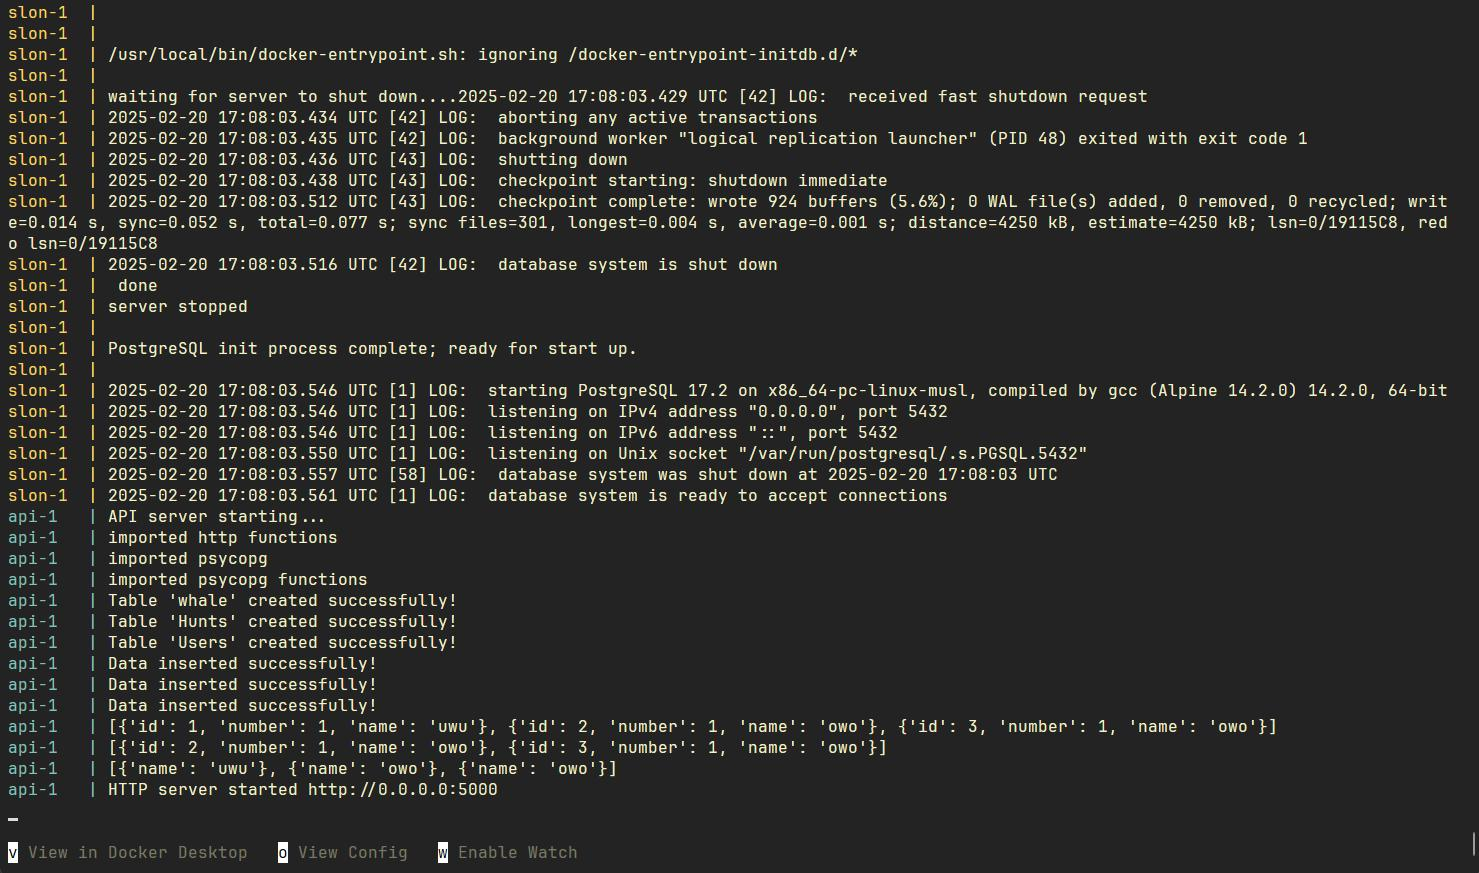
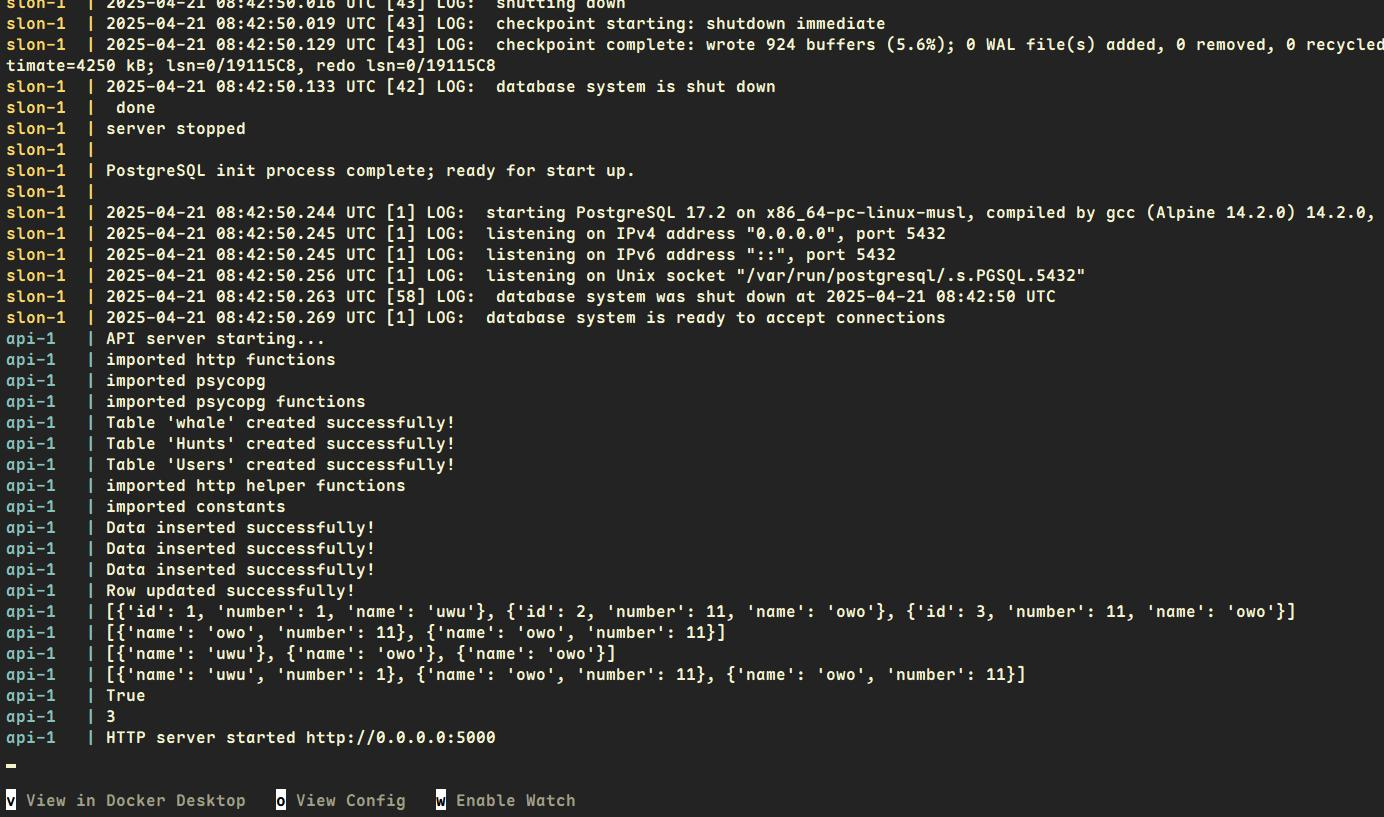
edited docs to reflect current state of the server + some of the firmware

Changed region(s): [[0.0, 0.0, 1.0, 0.918], [0.0, 0.9486, 0.4039, 1.0], [0.9942, 0.9486, 1.0, 0.9792]]

diff --git a/docs/API-functions-explanation.md b/docs/API-functions-explanation.md
@@ -45,12 +45,26 @@ If an error occurs it prints the error message and returns False.
 
 The function creates a cursor and makes a column list string that it inserts into a query, then executes it. Then it turns the returned values into a list of dictionaries and returns that.
 If an error occurs it prints the error message and returns an empty list.
+
+#### fetch_and_sort
+>params: generic_params, columns(list), sort_column(str), limit=None(int)  
+>returns: list of dictionaries/Empty list  
+
+The function creates a cursor and makes a column list string which it inserts into a query, with a order by a column, then executes it. Then it turns the returned values into a lis of dictionaries and returns that.
+If an error occurs it prints the error message and returns an empty list.
+
 #### entry_exists
 >params: generic_params, column(str), value(str)  
 >returns: True/False  
 
 The function creates a cursor and makes a query filtering for the value in a specific column, then executes it and returns the output.
 If an error occurs it prints the error message and returns False.
+#### count_rows
+>params: generic_params
+>returns: int  
+
+The function creates a cursor and makes a query counting the rows, then it executes it and returns the output.
+If an error occurs it prints the  message and returns -1.
 ## Insert functions
 #### insert_into_table
 >params: generic_params, data(dict)  
@@ -115,8 +129,9 @@ For GET requests this page only serves to tell a lost traveller that this is a P
 #### /i_venture_forth_to_hunt
 
 The function separates the parameters from the path. If the parameters are empty or incorrect, it responds with an error message.
-If they're correct they separate the key value pairs into a list of dictionaries, then it then uses fetch_columns_with_filter() to get the desired data and sends it to the client as a JSON file.
-If an error occurs, it send's that message to the client.
+If the parameters are a filter ("f"), then they separate the key value pairs into a list of dictionaries, then it then uses fetch_columns_with_filter() to get the desired data and sends it to the client as a JSON file.
+If the parameters are for getting top ("t"), then it first gets the amount from the parameters. It then checks for the amount in the db using count_rows(), if it's over that amount, it caps out. The amount is inserted into fetch_and_sort() and gets the data from that. Those get sent to the client in a JSON file.
+If a meta character ("\*") is used then it get's the whole db using fetch_all_from_table() and sends it to the client in a JSON file. (this will get rectified to only send huntid and count in the future)
 
 #### /spse
 

diff --git a/docs/translations/CZ/API-funkce-vysvetleniCZ.md b/docs/translations/CZ/API-funkce-vysvetleniCZ.md
@@ -44,12 +44,26 @@ Pokud nastane chyba, vypíše chybovou zprávu a vrátí False.
 
 Funkce vytvoří cursor a udělá ze seznamu sloupců filtr sloupců a vytvoří dotaz, ten pak spustí. Dále vloží vrácené hodnoty do seznamu slovníků a to vrátí.
 Když nastane chyba, vypíše chybovou zprávu a vrátí False.
+#### fetch_and_sort
+>params: generic_params, columns(seznam), sort_column(text), limit=None(číslo)  
+>returns: seznam slovníků/prázdný seznam  
+
+Funkce vytvoří cursor a udělá ze seznam sloupců který dá do dotazu s řazením podle sloupce, pak ho spustí. Poté promění vrácené hodnoty do seznamu slovníků a to vrátí
+Když nastane chyba, vypíše chybovou zprávu a vrátí prázdný seznam.
+
 #### entry_exists
 >parametry: generic_params, column(text), value(text)  
 >vrací: True/False  
 
 Funkce vytvoří cursor a dotaz filtrující pro sloupec, ten pak spustí a vrátí True.
 Když nastane chyba, vypíše chybovou zprávu a vrátí False.
+
+#### count_rows
+>params: generic_params
+>returns: číslo  
+
+Funkce vytvoří cursor a dotaz počítající počet řad, pak ho spustí a vrátí výstup.
+Pokud nastane chyba, vypíše chybovou zprávu a vrátí -1.
 ## Vkládací funkce
 #### insert_into_table
 >parametry: generic_params, data(slovník)  
@@ -116,8 +130,9 @@ For GET dotazy, tato zpráva oznamuje ztraceným cestovatelům že tato cesta je
 #### /i_venture_forth_to_hunt
 
 Funkce oddělí parametry od cesty, pokud jsou špatné, odpoví s chybovou zprávou.
-Když jsou správně, oddělí klíče a hodnoty z slovníků, pak pomocí fetch_columns_with_filter() dostane data a ty pošle klientovi jako JSON soubor.
-Když nastane chyba, pošle klientu chybovou zprávu.
+Pokud parametry jsou filtr ("f"), oddělí klíče a hodnoty z slovníků, pak pomocí fetch_columns_with_filter() dostane data a ty pošle klientovi jako JSON soubor.
+Když parametry jsou pro získání nevíce splněné lovy ("t"), tak z parametrů získá počet. Poté pomocí count_rows() získá počet řádek, pokud je požadovaný počet přes tuto hodnotu, tak ji nastaví jako počet. Poté je zavolán fetch_and_sort() a dostane data a pošle je klientovi v JSON souboru.
+Když je použita hvězdička ("\*"), tak  pošle klientovi celou databázi pomocí fetch_all_from_table() v JSON souboru. (to bude změněno na poslání huntid a count v budoucnu)
 
 #### /spse
 

diff --git a/docs/translations/CZ/instalaceCZ.md b/docs/translations/CZ/instalaceCZ.md
@@ -1,5 +1,11 @@
 # Server
 
+## Potřebný software
+
+Pro spuštění serveru jediné co potřebujete je instalaci Dockeru. Pro Linux stačí daemon dockeru. Pro MacOS a MS Windows potřebujete instalovat [Docker Desktop](https://www.docker.com/products/docker-desktop/).
+
+## Instalace
+
 Jelikož server používáme docker, může být spuštěný na jakémkoli počítači, který je  dostatečně výkonný. Je vytvořen aby byl jednoduchý spustit.
 
 Po klonování repositáře otevřete okno příkazové řádky v jeho adresáři. Poté použijte tento příkaz:
@@ -26,3 +32,9 @@ U tohoto platí stejné chyby.
 Základní nastavení funguje od začátku, ale pokud chcete, můžete ho nastavit podle [následujícího dokumentu](konfiguraceCZ.md)
 
 # Firmware
+
+## Potřebný software
+
+Firmware je kompilován v  [MPLABX IDE](https://www.microchip.com/en-us/tools-resources/develop/mplab-x-ide) s [XC32 kompilerem](https://www.microchip.com/en-us/tools-resources/develop/mplab-xc-compilers/xc32). Tento software je dostupný pro všechny často používané operační systémy (MS Windows, MacOS and Linux) ale jsou potřeba dva externí programy.  
+První potřebujeme `sed` nástroj pro příkazový řádek na úpravu souborů, který je používání pro úpravu ID Checkpointu. Když používáte Linux, vaše distribuce ho může mít předinstalovaný. Pokud používáte MacOS, tak ho máte předinstalovaný. Když používáte Windows, musíte si ho nainstalovat sami (například pomocí winget)
+Jako druhý potřebujete Python 3.13+ pro interpretaci skriptu pro úpravu Checkpoint ID.

diff --git a/docs/instalation.md b/docs/instalation.md
@@ -1,5 +1,11 @@
 # Server
 
+## Requirements
+
+For using the server all you need an installation of Docker. For Linux only the docker daemon is necessary. For MacOS and MS Windows you need to install [Docker Desktop](https://www.docker.com/products/docker-desktop/).
+
+## Instalation
+
 Since the server is using docker to run on, any computer powerful enough can run it. It is made to be easy to setup.
 
 First clone this repo and open a terminal window in it's directory. Then run this command:
@@ -26,3 +32,9 @@ Here the same errors apply.
 The default configuration works out of the box, however if you wish to, you can configure it according to the [following document](config.md)
 
 # Firmware
+
+## Requirements
+
+The firmware is compiled in [MPLABX IDE](https://www.microchip.com/en-us/tools-resources/develop/mplab-x-ide) with the [XC32 compiler](https://www.microchip.com/en-us/tools-resources/develop/mplab-xc-compilers/xc32). This software is available for all mainstream operating systems (MS Windows, MacOS and Linux) but there are two external programs that are necessary.  
+First You need `sed` a command line tool to edit files, which is used for the changing of the Checkpoint ID. If you use Linux, your distribution may have it preinstalled. If you use MacOS it is preinstalled. On Windows you have to install it yourself (for example using winget)  
+Secondly you need Python 3.13+ for interpreting the Checkpoint ID customizing script.

diff --git a/docs/communication.md b/docs/communication.md
@@ -13,8 +13,10 @@ The page spse redirects to the site of SPŠE Plzeň.
 ## i_venture_forth_to_hunt
 
 This path is used to fetch data from the database with filtering based on the hunt hash.
-As URI parameters the client uses key value pairs, where the key is always "f" while the value is the hunt hash to filter by. The client can use any mumber of pairs
+As URI parameters the client can use key value pairs, where the key is always "f" while the value is the hunt hash to filter by. The client can use any number of pairs.
 The server responds with the hunt hash, that the client can confirm and the number of times it was completed.
+The recommended parameter for the client is "t" which get's the top hunts, the user can specify the number of hunts, but the response is limited to the amount of hunts in the database.
+The server responds with the list of hunt hashes and the amounts they were completed.
 
 # POST
 

diff --git a/docs/translations/CZ/komunikaceCZ.md b/docs/translations/CZ/komunikaceCZ.md
@@ -15,6 +15,8 @@ Stránka spse přesměruje uživatele na stránku SPŠE Plzeň.
 Tato cesta je použitá pro získávání dat z databáze s filtrem na základě hashe lovu.
 Jako URI parametry klient použije páry klíče a hodnot, kde klíč je vždy "f" a hodnota je hashe lovu podle kterého se bude filtrovat. Klient může použít jakýkoli počet párů.
 Server odpoví  s hashí a a počtem kolikrát byl splněn.
+Doporučený parametr pro klienta na použití je "t", který vrátí nejvíce splněné lovy. Uživatel může specifikovat počet kolik jich chce, ale server maximálně vrátí počet lovů v databázi.
+Server odpoví seznamem hashí lovů a počtem jejich splnění.
 
 # POST
 
